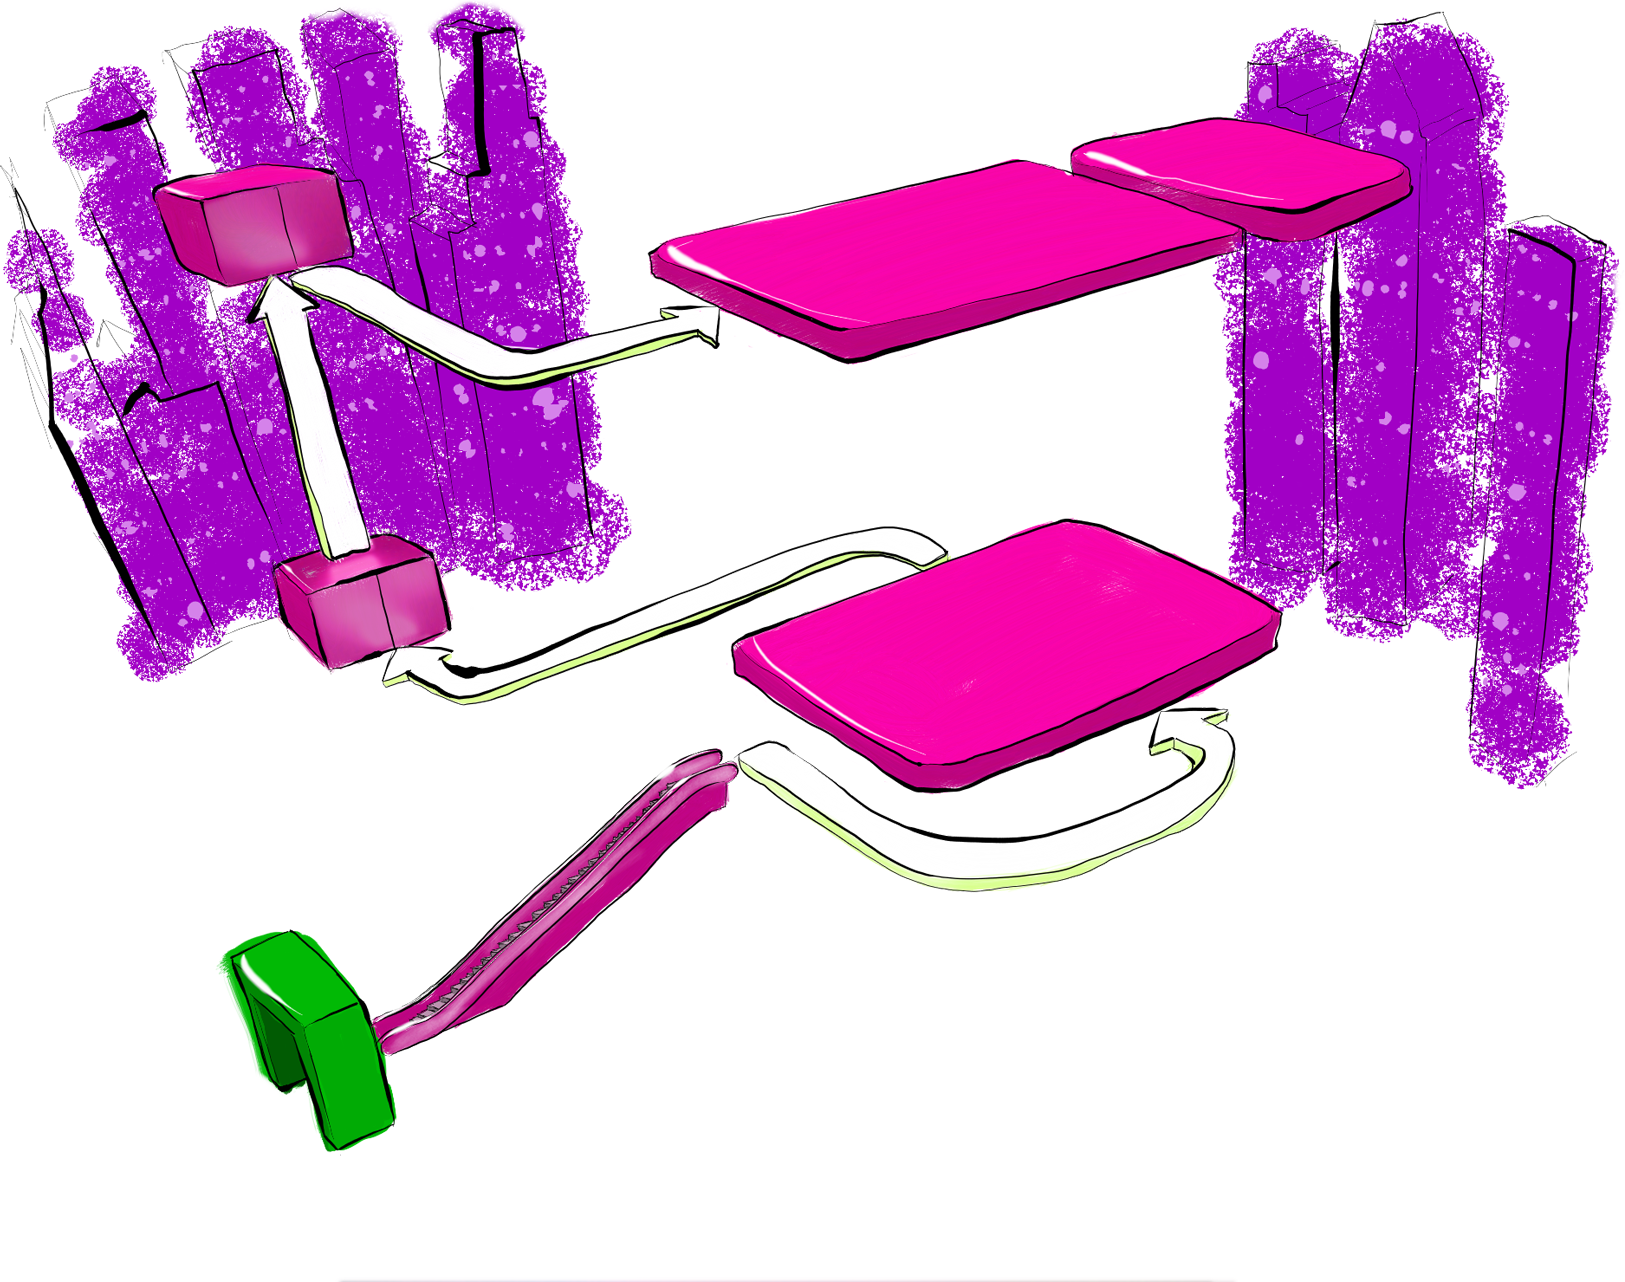
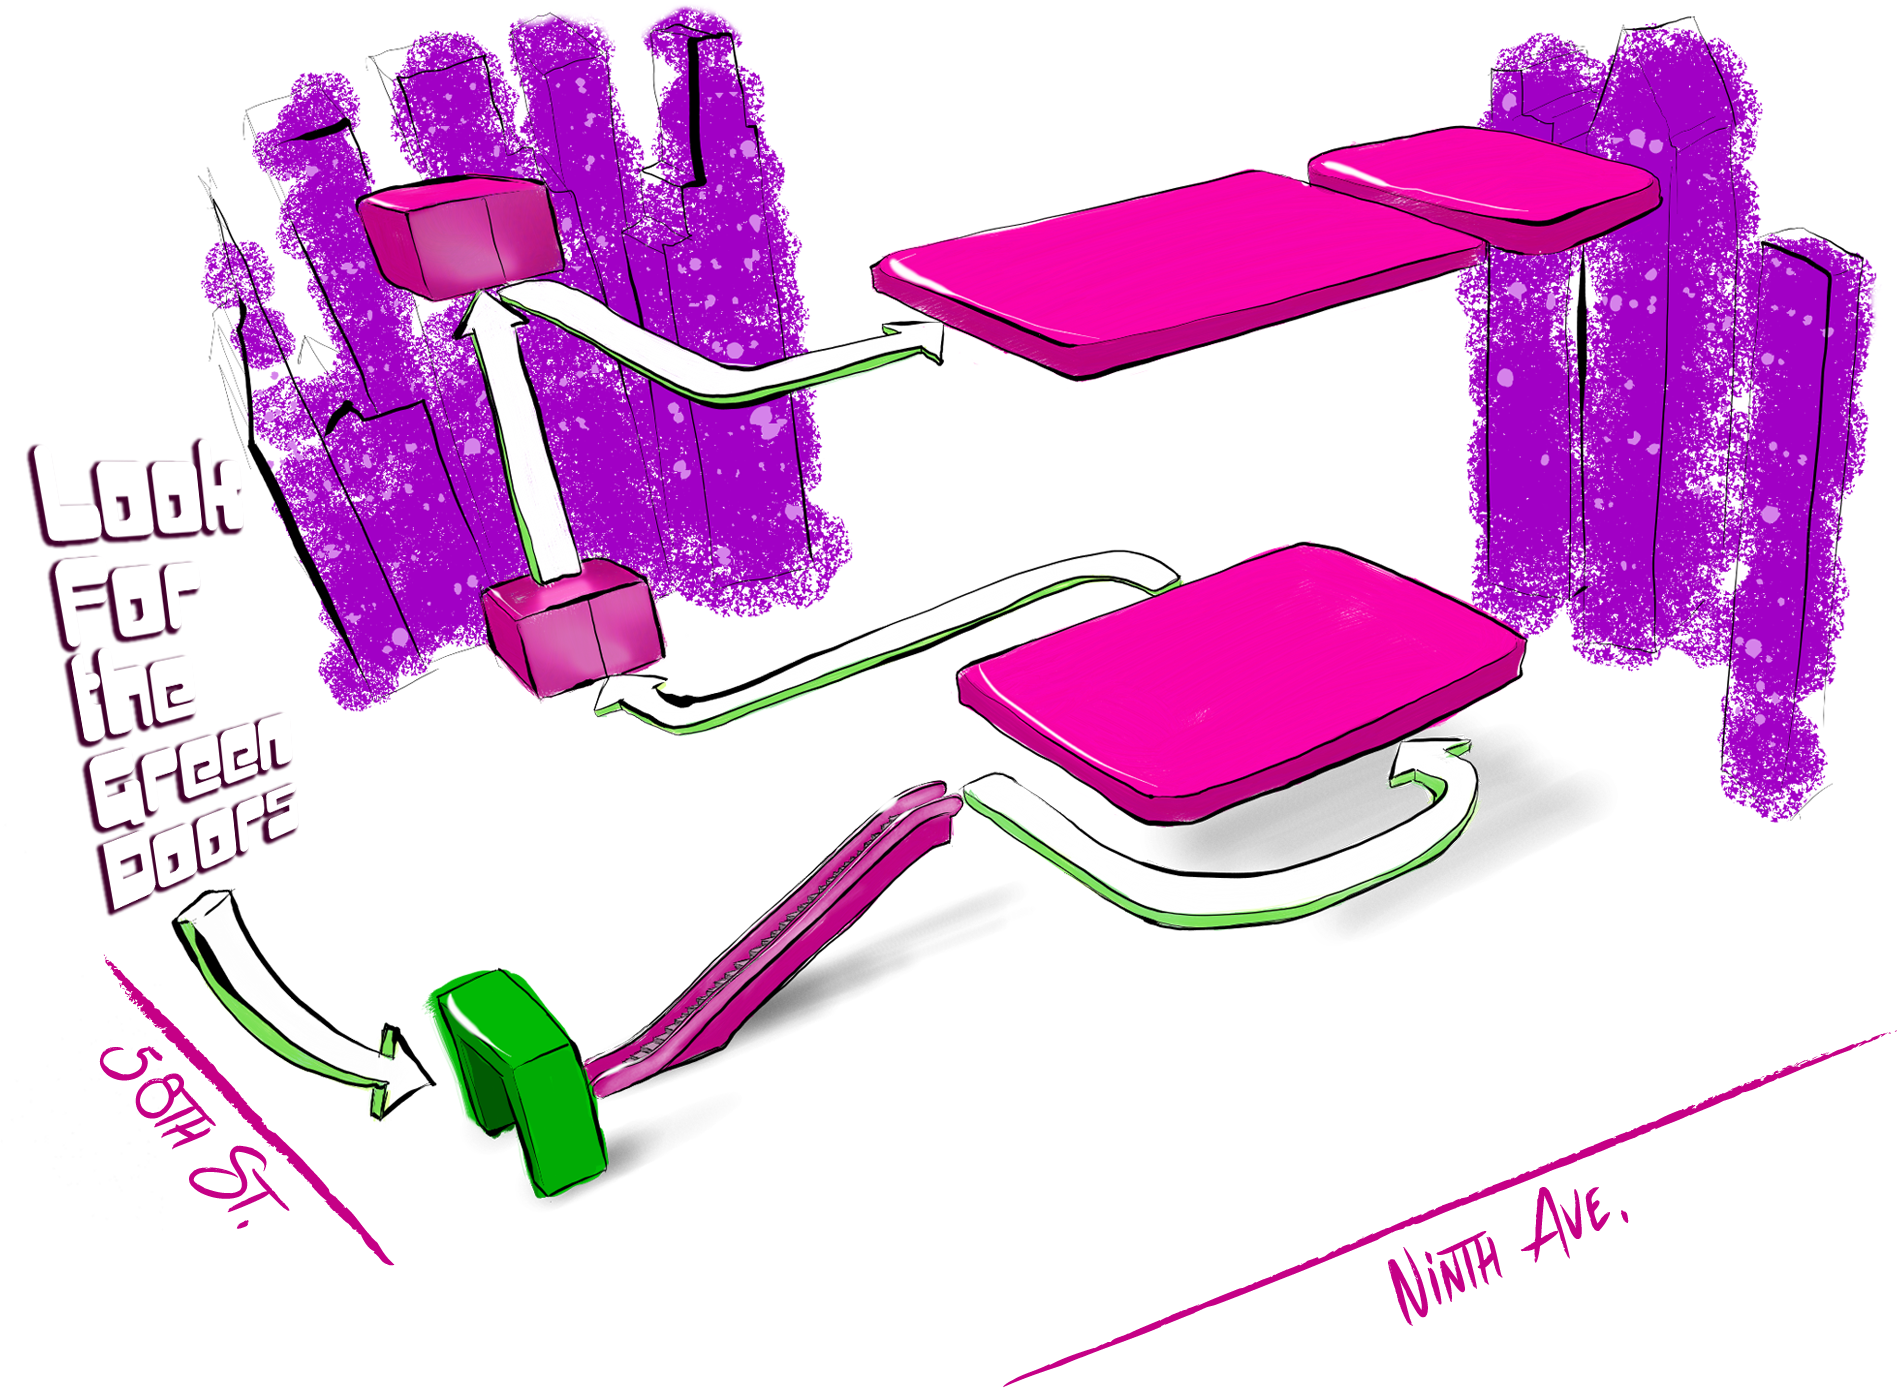
updated location design

diff --git a/www/css/site.css b/www/css/site.css
@@ -93,10 +93,28 @@ body {
 	top: 1525px;
 }
 #location-layout {
-	left: 275px;
-	top: 1800px;
+	left: 0px;
+	top: 1750px;
 }
-#location-green-door {
+#location-celebration-button {
+	left: 950px;
+	top: 1800px;
+	max-width: 320px;
+	height:auto;
+}
+#location-ceremony-button {
+	left: 1450px;
+	top: 2600px;
+	max-width: 300px;
+	height:auto;
+}
+#location-location-button {
+	left: 450px;
+	top: 2950px;
+	max-width: 280px;
+	height:auto;
+}
+/*#location-green-door {
 	left: 50px;
 	top: 1900px;
 }
@@ -115,14 +133,18 @@ body {
 	top: 2900px;
 	height: auto;
 	max-width: 220px;
+}*/
+#location_celebration_modal {
+	left: 950px;
+	top: 1800px;
 }
-#location_calendar_modal {
+#location_ceremony_modal {
 	top: 2400px;
-	left: 800px;
+	left: 900px;
 }
-#location_map_modal {
+#location_location_modal {
 	top: 2550px;
-	left: 800px;	
+	left: 500px;	
 }
 
 

diff --git a/www/js/site.js b/www/js/site.js
@@ -318,7 +318,6 @@ $(window).load(function(){
                 rescale(r);
                 modal.css('left', 5);
             }
-            
             modal.show();
         });
     });
